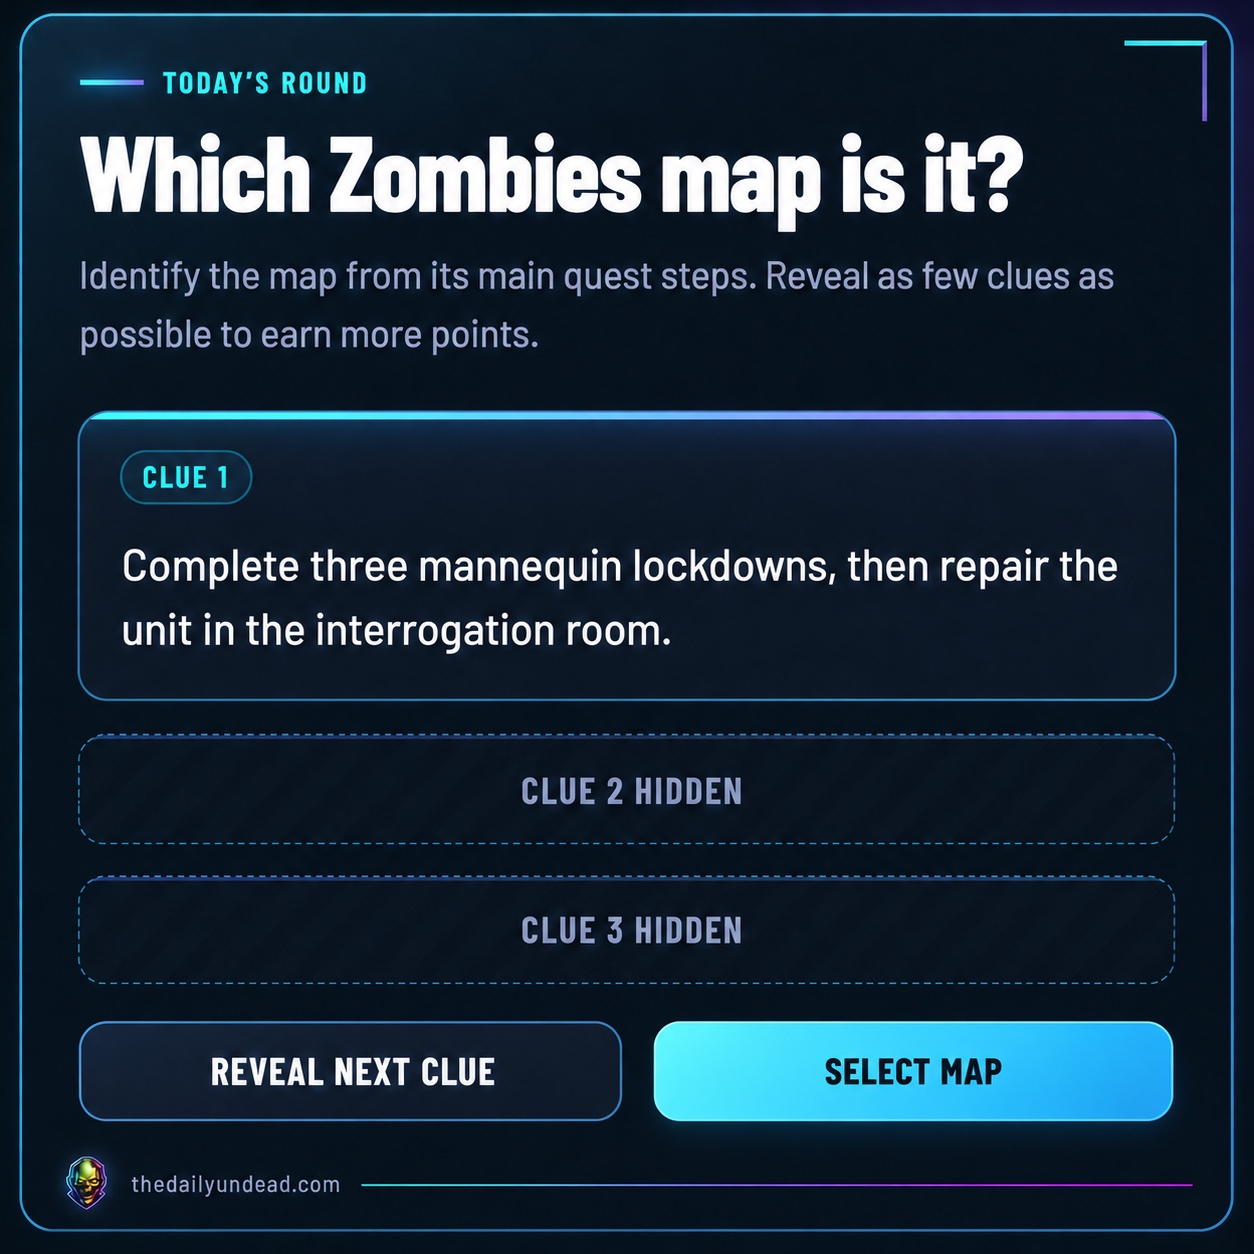
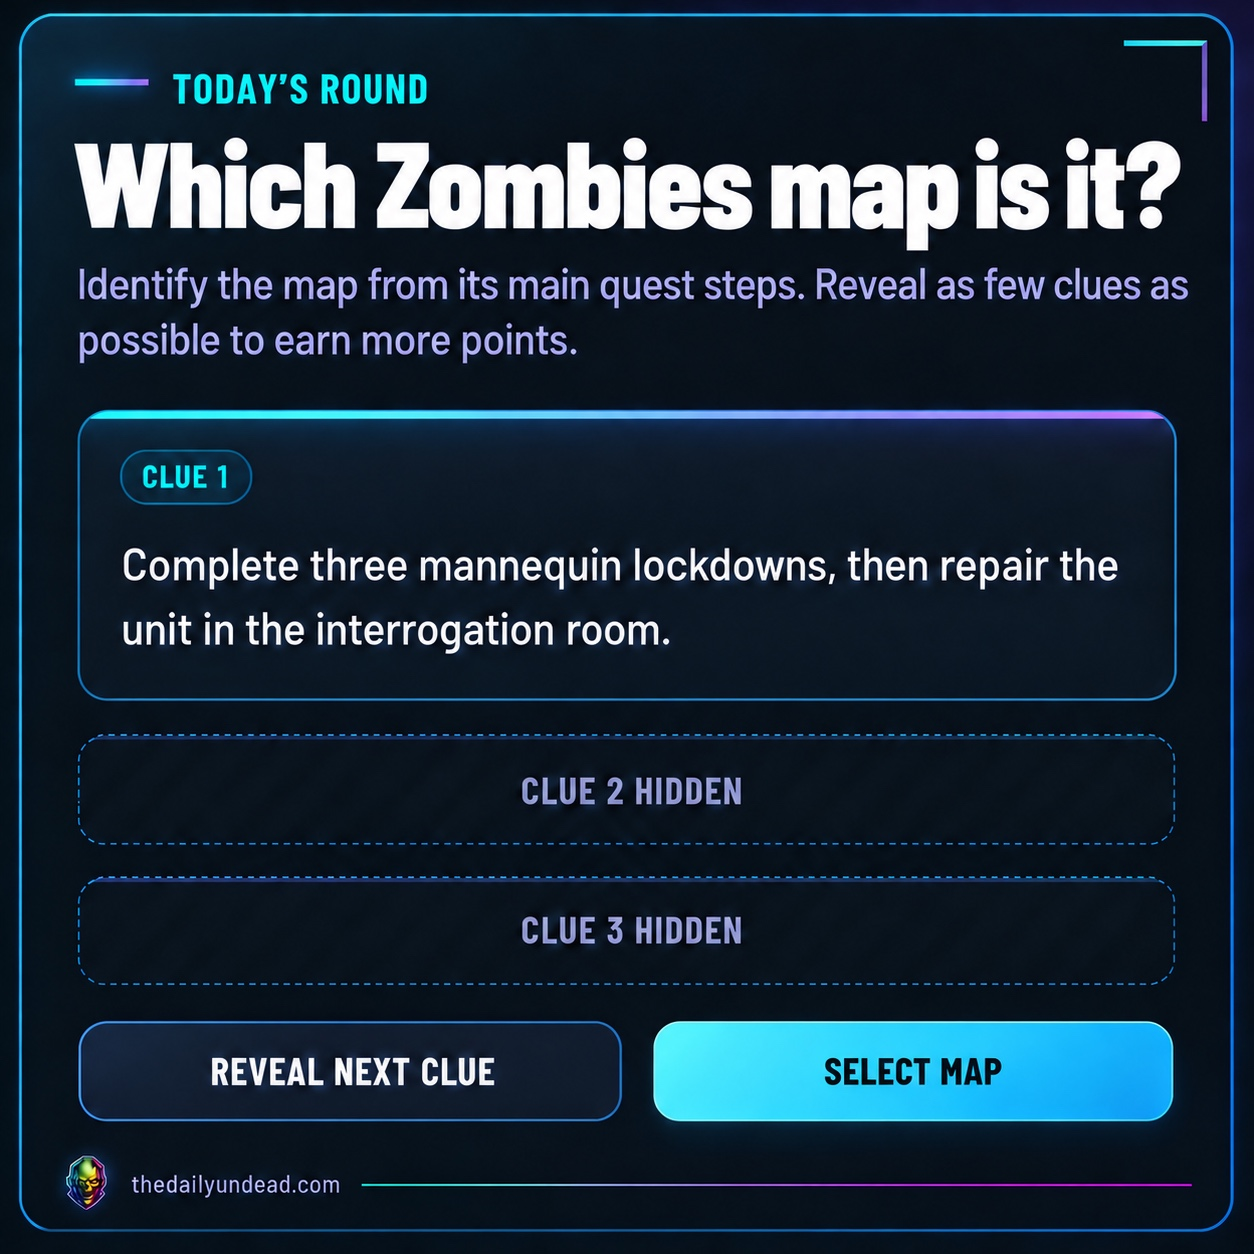
Refine Quest Steps marketing template

diff --git a/js/marketing.js b/js/marketing.js
@@ -140,7 +140,7 @@ function fitClue(context, clue) {
 
 async function drawQuestStepsImage(clue) {
   await document.fonts.load("500 45px Barlow");
-  const template = await loadImage("./assets/marketing-template.jpg?v=20261013-1");
+  const template = await loadImage("./assets/marketing-template.jpg?v=20261015-2");
   const context = canvas.getContext("2d", { alpha: false });
   context.drawImage(template, 0, 0, canvas.width, canvas.height);
   erasePreviousClue(context);

diff --git a/marketing.html b/marketing.html
@@ -108,6 +108,6 @@
       </div>
     </dialog>
 
-    <script type="module" src="./js/marketing.js?v=20261013-4"></script>
+    <script type="module" src="./js/marketing.js?v=20261015-2"></script>
   </body>
 </html>
